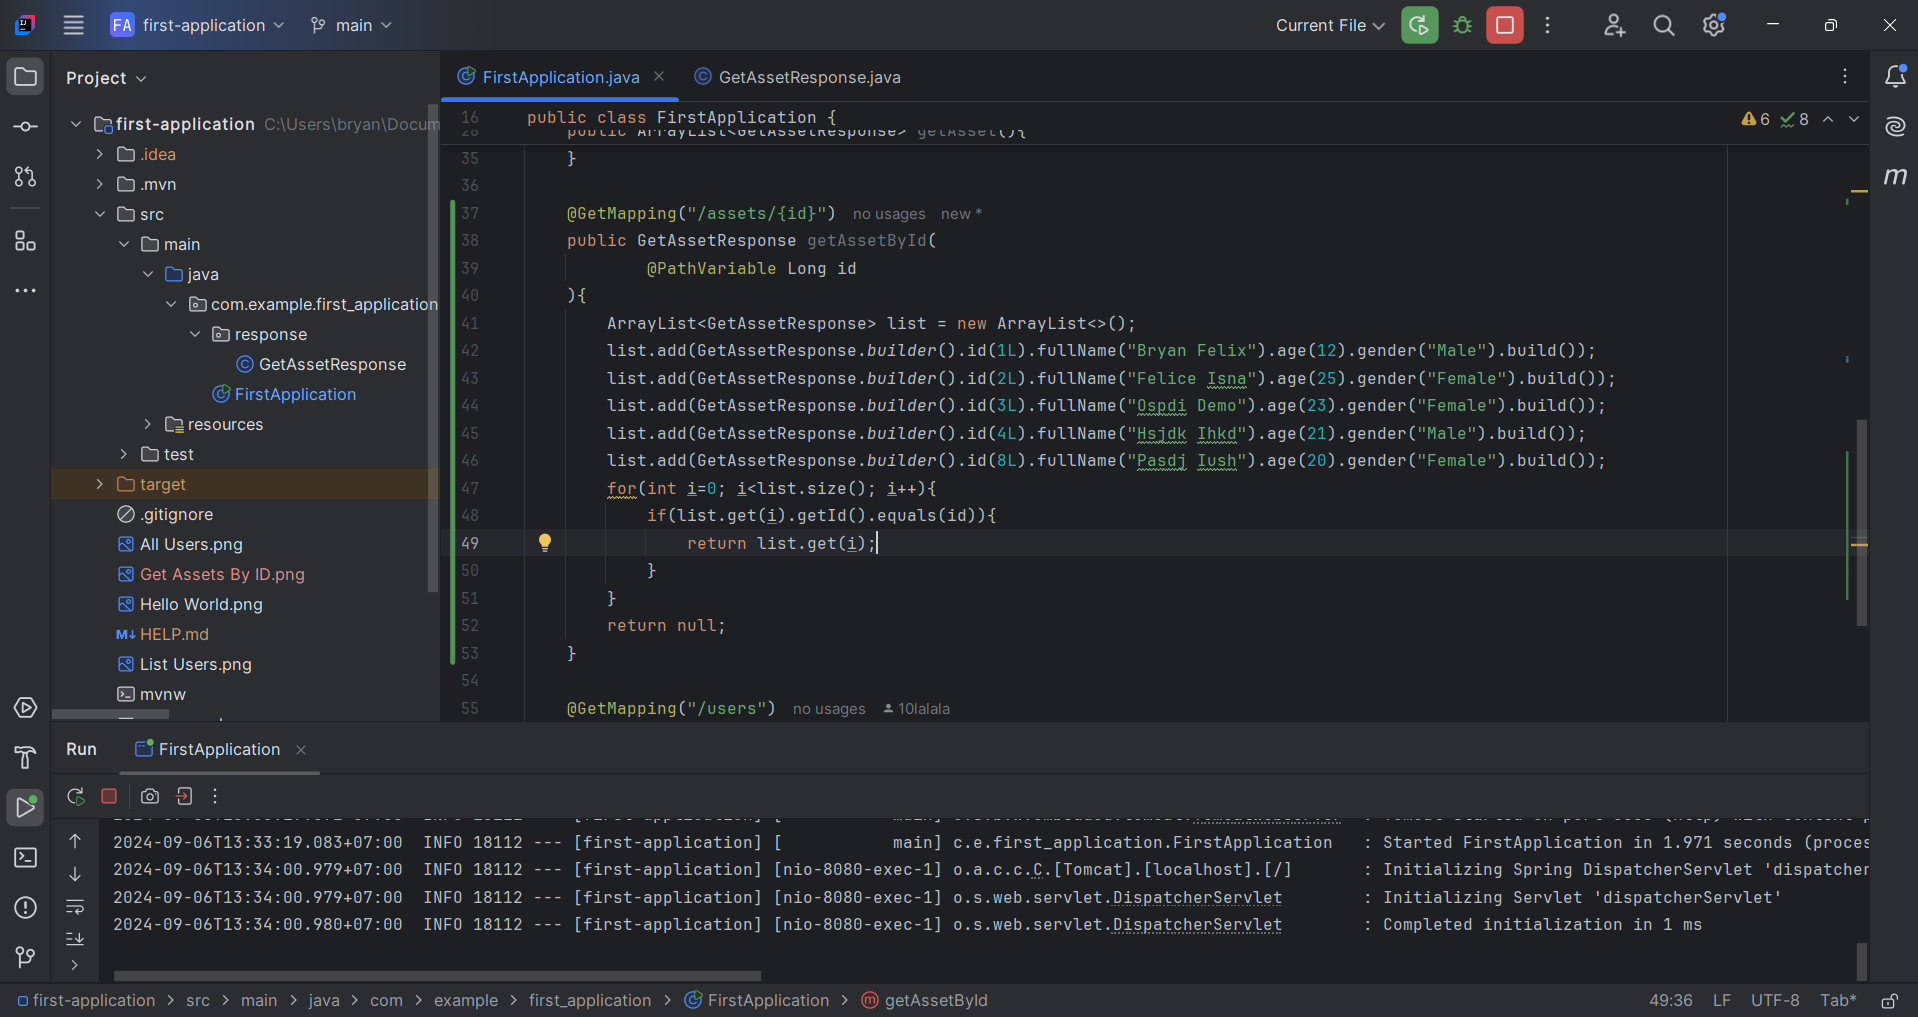
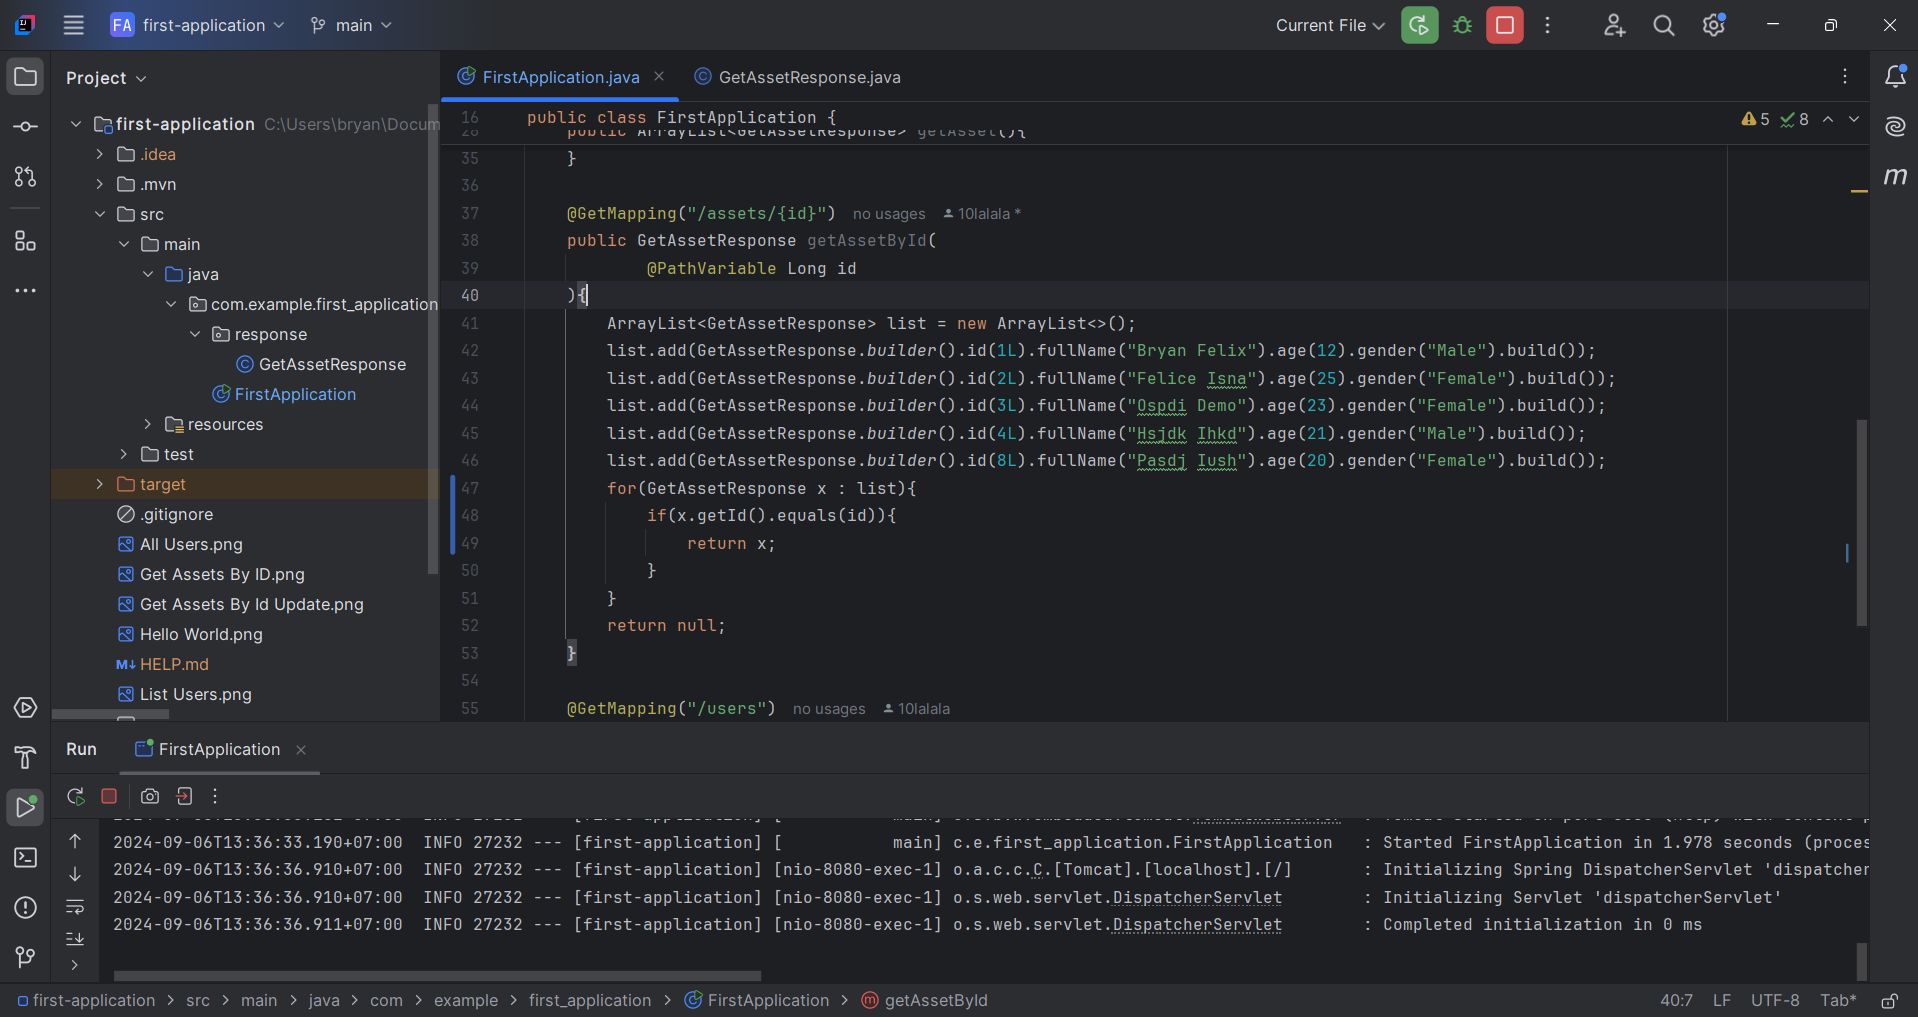
Get Asset by Lebih besar id

diff --git a/exercise/day-2/section-1/first-application/src/main/java/com/example/first_application/FirstApplication.java b/exercise/day-2/section-1/first-application/src/main/java/com/example/first_application/FirstApplication.java
@@ -35,7 +35,7 @@ public class FirstApplication {
 	}
 
 	@GetMapping("/assets/{id}")
-	public GetAssetResponse getAssetById(
+	public ArrayList<GetAssetResponse> getAssetById(
 			@PathVariable Long id
 	){
 		ArrayList<GetAssetResponse> list = new ArrayList<>();
@@ -44,12 +44,14 @@ public class FirstApplication {
 		list.add(GetAssetResponse.builder().id(3L).fullName("Ospdi Demo").age(23).gender("Female").build());
 		list.add(GetAssetResponse.builder().id(4L).fullName("Hsjdk Ihkd").age(21).gender("Male").build());
 		list.add(GetAssetResponse.builder().id(8L).fullName("Pasdj Iush").age(20).gender("Female").build());
-		for(int i=0; i<list.size(); i++){
-			if(list.get(i).getId().equals(id)){
-				return list.get(i);
+
+		ArrayList<GetAssetResponse> temp = new ArrayList<>();
+		for(GetAssetResponse x : list){
+			if(x.getId() >= id){
+				temp.add(x);
 			}
 		}
-		return null;
+		return temp;
 	}
 
 	@GetMapping("/users")
